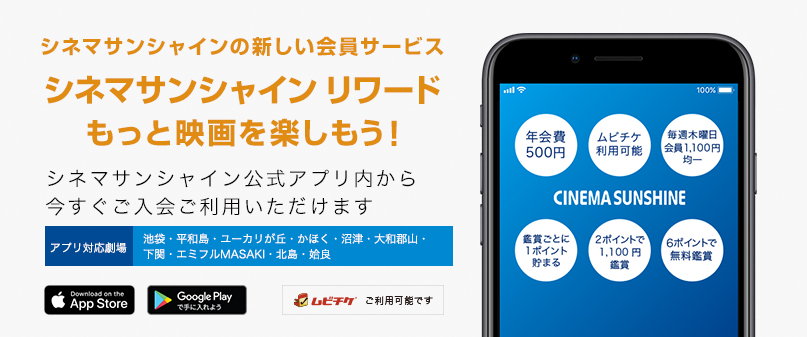
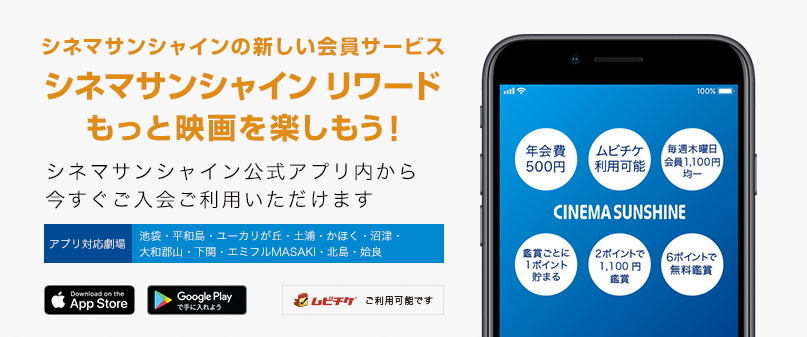
土浦_導入に関する更新

diff --git a/public/js/theater/top.js b/public/js/theater/top.js
@@ -37,6 +37,7 @@ function isAppCompatibleTheater() {
         'ikebukuro',
         'heiwajima',
         'yukarigaoka',
+        'tsuchiura',
         'kahoku',
         'numazu',
         'yamatokoriyama',
